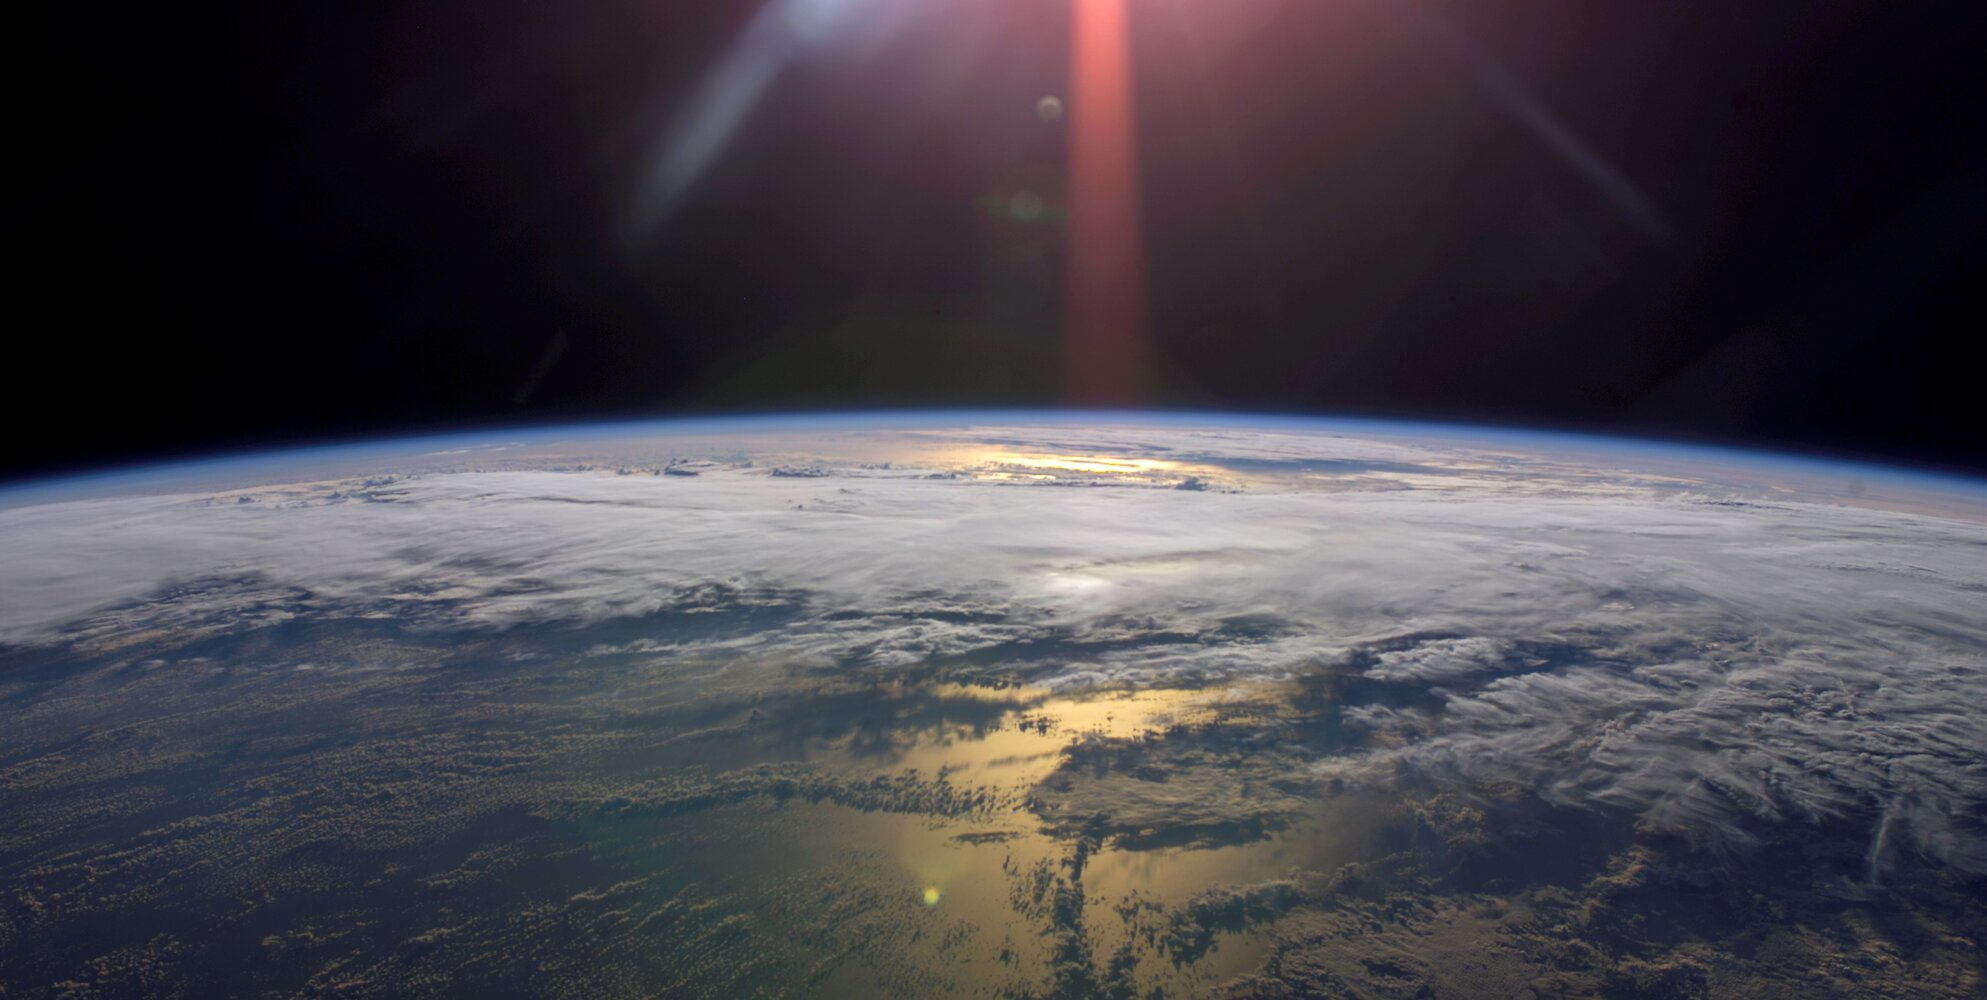
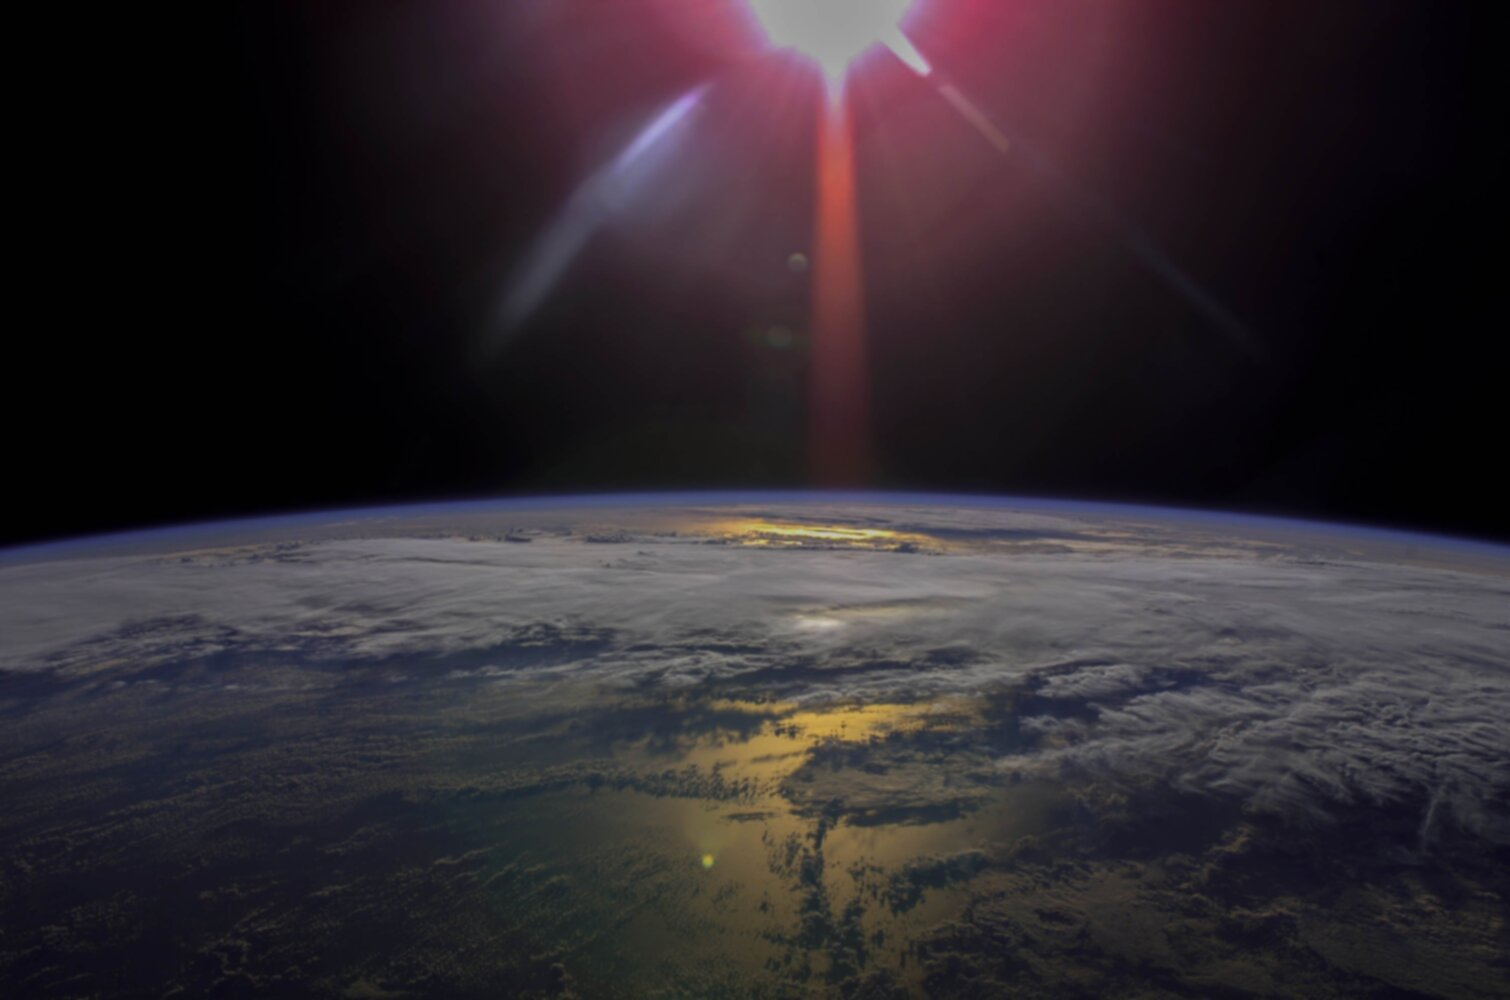
update background img

diff --git a/style.css b/style.css
@@ -10,7 +10,7 @@ body {
 }
 
 header {
-    background: linear-gradient( rgba(0, 0, 0, 0.3), rgba(0, 0, 0, 0.3)), url('imgs/bg-iss013e78960.jpg');
+    background:url('imgs/bg-iss013e78960-3a.jpg');
     background-repeat: no-repeat;
     background-attachment: fixed;
     background-size: cover;
